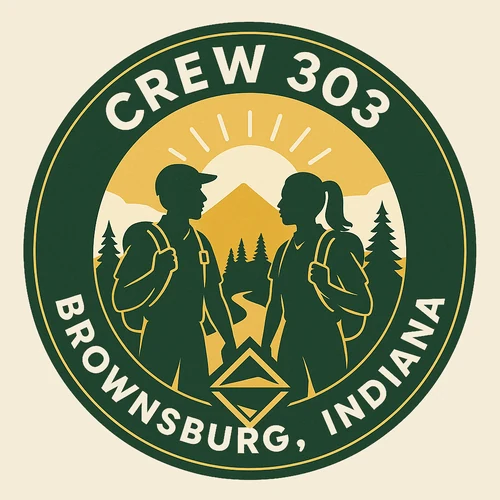
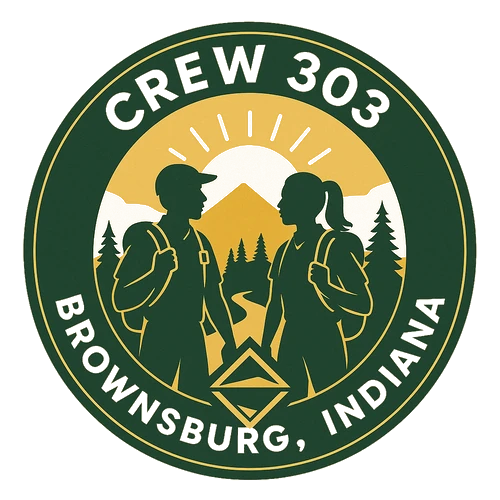
fix: remove baked-in image backgrounds, unify site to one background color
The logo and unit badges had the Google Site's cream background (#f5edd9)
painted directly into the PNG pixels rather than real transparency, so
they showed as visible boxes once this site's background diverged from
that color. Chroma-keyed the flat cream out of those four assets with a
soft-edge cutout, and switched the whole site to that single cream color
(no more alternating white/tan sections) so everything blends the way it
did on the original.

Also smooths out the nav: sticky header, an actual slide transition on
the mobile menu instead of an instant show/hide, and hover transitions
on links and buttons that were previously just jump-cuts.

diff --git a/assets/css/style.css b/assets/css/style.css
@@ -1,12 +1,12 @@
 :root {
   --green: #274e13;
   --green-dark: #1b3a0d;
-  --green-light: #e8f0e2;
-  --tan: #f7f5ef;
+  --cream: #f5edd9;
   --ink: #212121;
   --ink-light: #4a4a4a;
-  --border: #dfe3d9;
+  --border: #e2d9bf;
   --max: 980px;
+  --ease: 0.18s ease;
 }
 
 * { box-sizing: border-box; }
@@ -17,7 +17,7 @@ body {
   margin: 0;
   font-family: "Lato", Arial, sans-serif;
   color: var(--ink);
-  background: #ffffff;
+  background: var(--cream);
   line-height: 1.6;
 }
 
@@ -27,7 +27,7 @@ body {
   padding: 0 1.5rem;
 }
 
-a { color: var(--green); }
+a { color: var(--green); transition: color var(--ease); }
 a:hover { color: var(--green-dark); }
 
 .sr-only {
@@ -45,8 +45,11 @@ a:focus-visible, button:focus-visible {
 
 /* Header / Nav */
 .site-header {
-  background: #ffffff;
+  background: var(--cream);
   border-bottom: 1px solid var(--border);
+  position: sticky;
+  top: 0;
+  z-index: 10;
 }
 
 .nav-wrap {
@@ -77,7 +80,10 @@ a:focus-visible, button:focus-visible {
   border-radius: 6px;
   padding: 0.25rem 0.6rem;
   cursor: pointer;
+  transition: background var(--ease), color var(--ease);
 }
+
+.nav-toggle:hover { background: var(--green); color: #fff; }
 
 .site-nav {
   display: flex;
@@ -91,6 +97,7 @@ a:focus-visible, button:focus-visible {
   font-weight: 700;
   padding-bottom: 0.15rem;
   border-bottom: 2px solid transparent;
+  transition: color var(--ease), border-color var(--ease);
 }
 
 .site-nav a:hover,
@@ -105,21 +112,29 @@ a:focus-visible, button:focus-visible {
   padding: 0.5rem 1.1rem;
   border-radius: 6px;
   border-bottom: none !important;
+  transition: background var(--ease), transform var(--ease);
 }
 
-.nav-donate:hover { background: var(--green-dark); }
+.nav-donate:hover { background: var(--green-dark); transform: translateY(-1px); }
 
 @media (max-width: 720px) {
   .nav-toggle { display: inline-block; }
   .site-nav {
-    display: none;
     flex-direction: column;
     align-items: flex-start;
     width: 100%;
     gap: 1rem;
-    padding: 1rem 0 0.5rem;
+    max-height: 0;
+    overflow: hidden;
+    padding: 0;
+    opacity: 0;
+    transition: max-height var(--ease), opacity var(--ease), padding var(--ease);
   }
-  .site-nav.open { display: flex; }
+  .site-nav.open {
+    max-height: 260px;
+    opacity: 1;
+    padding: 1rem 0 1.25rem;
+  }
 }
 
 /* Main content */
@@ -128,8 +143,6 @@ main { display: block; }
 section {
   padding: 3rem 0;
 }
-
-section.tan { background: var(--tan); }
 
 .page-title {
   padding: 2.5rem 0 0.5rem;
@@ -180,24 +193,6 @@ h2 {
   object-fit: cover;
 }
 
-.photo-placeholder {
-  width: 100%;
-  aspect-ratio: 4 / 3;
-  border-radius: 10px;
-  border: 2px dashed #b7c6ab;
-  background: var(--green-light);
-  color: var(--green-dark);
-  display: flex;
-  flex-direction: column;
-  align-items: center;
-  justify-content: center;
-  text-align: center;
-  padding: 1rem;
-  font-size: 0.9rem;
-}
-
-.photo-placeholder .icon { font-size: 1.8rem; margin-bottom: 0.4rem; }
-
 /* Pillars (What We Are About) */
 .pillars {
   display: grid;
@@ -223,15 +218,18 @@ h2 {
   text-decoration: none;
   padding: 0.8rem 1.6rem;
   border-radius: 8px;
+  transition: background var(--ease), transform var(--ease);
 }
 
-.btn:hover { background: var(--green-dark); color: #fff; }
+.btn:hover { background: var(--green-dark); color: #fff; transform: translateY(-1px); }
 
-.btn-img { display: inline-block; }
+.btn-img { display: inline-block; transition: transform var(--ease); }
 .btn-img img { display: block; height: 56px; width: auto; }
+.btn-img:hover { transform: translateY(-1px); }
 
-.join-badge { display: inline-block; margin-top: 0.75rem; }
+.join-badge { display: inline-block; margin-top: 0.75rem; transition: transform var(--ease); }
 .join-badge img { display: block; height: 40px; width: auto; }
+.join-badge:hover { transform: translateY(-1px); }
 
 /* Units */
 .unit-block {

diff --git a/our-units.md b/our-units.md
@@ -52,7 +52,7 @@ permalink: /our-units/
 
 </div>
 
-<section class="tan">
+<section>
   <div class="wrap">
     <p class="lede" style="margin:0;">
       Your gift to CISLF provides long-term, stable funding for all four units.

diff --git a/index.md b/index.md
@@ -28,7 +28,7 @@ permalink: /
   </div>
 </div>
 
-<section class="tan">
+<section>
   <div class="wrap">
     <div class="story-block reverse">
       <div class="story-photo">

diff --git a/donate.md b/donate.md
@@ -46,7 +46,7 @@ permalink: /donate/
   </div>
 </div>
 
-<section class="tan">
+<section>
   <div class="wrap">
     <h2>What Your Gift Provides</h2>
     <div class="tiers">

diff --git a/contact-us.md b/contact-us.md
@@ -19,7 +19,7 @@ permalink: /contact-us/
   </p>
 </div>
 
-<section class="tan">
+<section>
   <div class="wrap">
     <h2>Mailing Address</h2>
     <p>
